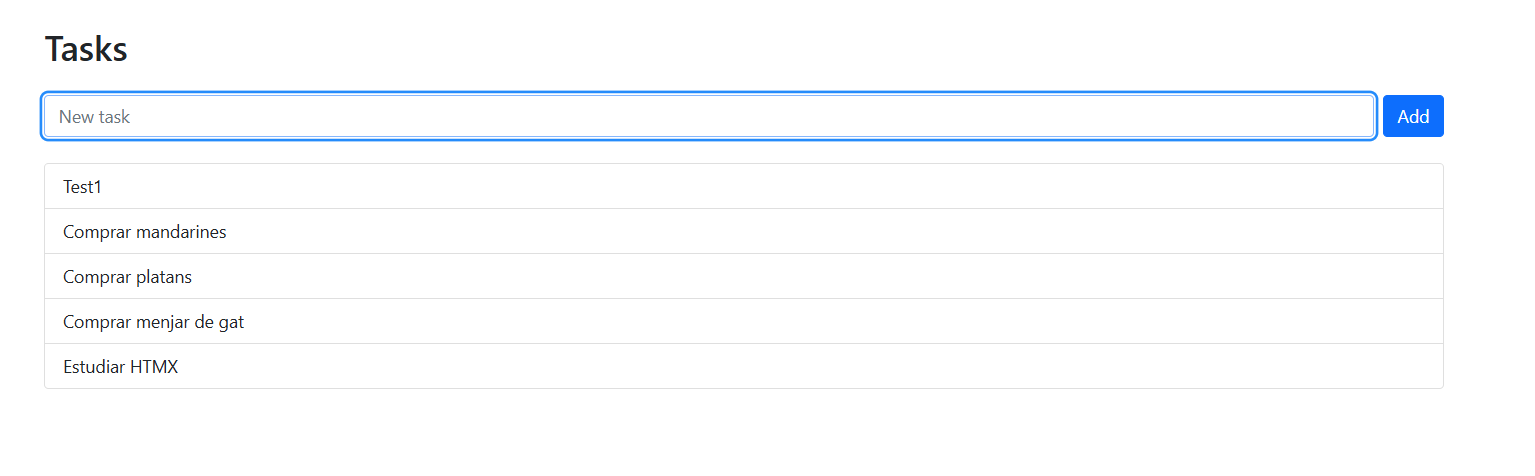
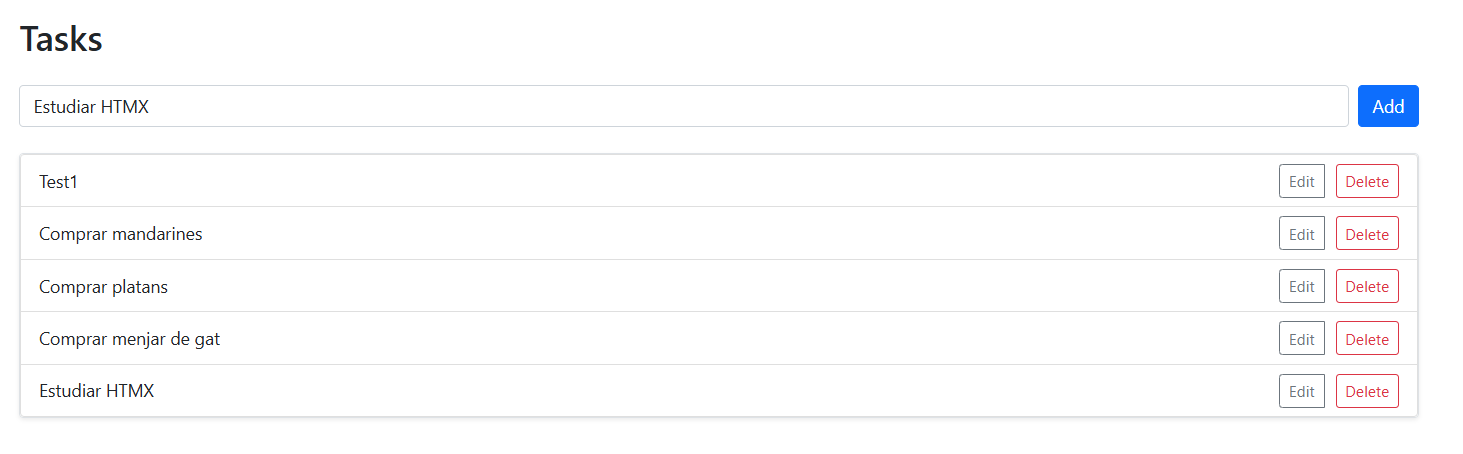
Added inline edit, delete feature and updated documentation.

diff --git a/HyperTasks/Pages/Tasks.cshtml.cs b/HyperTasks/Pages/Tasks.cshtml.cs
@@ -1,6 +1,7 @@
 using HyperTasks.Services.Contracts;
 using Microsoft.AspNetCore.Mvc;
 using Microsoft.AspNetCore.Mvc.RazorPages;
+using System.Threading;
 
 namespace HyperTasks.Pages;
 
@@ -10,6 +11,9 @@ namespace HyperTasks.Pages;
 public class TasksModel : PageModel
 {
     private readonly ITaskService _taskService;
+
+    [BindProperty]
+    public Models.Task TaskEdit { get; set; } = new();
 
     public TasksModel(ITaskService taskService)
     {
@@ -25,6 +29,33 @@ public class TasksModel : PageModel
     public IActionResult OnPostAdd(string description)
     {
         _taskService.Add(description);
+        var tasks = _taskService.GetAll();
+        return Partial("_TaskList", tasks);
+    }
+
+    public IActionResult OnPostDelete(int id)
+    {
+        _taskService.Remove(id);
+        var tasks = _taskService.GetAll();
+        return Partial("_TaskList", tasks);
+    }
+
+    public IActionResult OnGetEditForm(int id)
+    {
+        var task = _taskService.GetAll().FirstOrDefault(t => t.Id == id);
+        if (task is null) return NotFound();
+
+        return Partial("_TaskEditForm", task);
+    }
+
+    public IActionResult OnPostEdit()
+    {
+        var task = _taskService.GetAll().FirstOrDefault(t => t.Id == TaskEdit.Id);
+        if (task is not null)
+        {
+            task.Description = TaskEdit.Description;
+        }
+
         var tasks = _taskService.GetAll();
         return Partial("_TaskList", tasks);
     }

diff --git a/HyperTasks/Services/Contracts/ITaskService.cs b/HyperTasks/Services/Contracts/ITaskService.cs
@@ -20,4 +20,10 @@ public interface ITaskService
     /// </summary>
     /// <param name="description">The task description.</param>
     public void Add(string description);
+
+    /// <summary>
+    /// Removes a task by its unique identifier.
+    /// </summary>
+    /// <param name="id">The id of the task to remove.</param>
+    public void Remove(int id);
 }

diff --git a/HyperTasks/Services/TaskService.cs b/HyperTasks/Services/TaskService.cs
@@ -18,5 +18,15 @@ public class TaskService : ITaskService
     }
 
     /// <inheritdoc/>
+    public void Remove(int id)
+    {
+        var task = _tasks.FirstOrDefault(t => t.Id == id);
+        if (task is not null)
+        {
+            _tasks.Remove(task);
+        }
+    }
+
+    /// <inheritdoc/>
     public List<Models.Task> GetAll() => _tasks;
 }

diff --git a/HyperTasks/Pages/Shared/_TaskEditForm.cshtml.cs b/HyperTasks/Pages/Shared/_TaskEditForm.cshtml.cs
@@ -1,0 +1,12 @@
+using Microsoft.AspNetCore.Mvc;
+using Microsoft.AspNetCore.Mvc.RazorPages;
+
+namespace HyperTasks.Pages.Shared
+{
+    public class _TaskEditFormModel : PageModel
+    {
+        public void OnGet()
+        {
+        }
+    }
+}

diff --git a/README.md b/README.md
@@ -14,6 +14,8 @@
 ## ✨ Features
 
 - Interactive task list with dynamic add functionality
+- Edit tasks in-place with dynamic form swapping
+- Delete tasks with confirmation dialogs
 - Built using Razor Pages (Server-Side Rendering)
 - Uses [htmx](https://htmx.org) for partial updates via `GET` and `POST`
 - No JavaScript frameworks required
@@ -60,7 +62,8 @@ https://localhost:PORT/
 │   ├── Tasks.cshtml
 │   ├── Tasks.cshtml.cs
 │   └── Shared/
-│       └── _TaskList.cshtml
+│       ├── _TaskList.cshtml
+│       └── _TaskEditForm.cshtml
 ├── wwwroot/
 │   ├── js/htmx.min.js
 │   ├── js/bootstrap.bundle.min.js
@@ -74,7 +77,8 @@ https://localhost:PORT/
 ![HTML Razor markup](./htmx1.PNG)
 
 - Uses `hx-get`, `hx-post`, `hx-target`, and `hx-swap`
-- Trigger on page load and form submit
+- Triggers on page load, form submit, and button clicks
+- Styled with Bootstrap classes
 
 ---
 
@@ -83,22 +87,26 @@ https://localhost:PORT/
 ![OnGet / OnPost handlers](./htmx3.PNG)
 
 - `OnGetList()` returns the rendered task list
-- `OnPostAdd()` adds a new task and returns updated list
+- `OnPostAdd()` adds a new task
+- `OnPostDelete()` deletes an existing task
+- `OnGetEditForm()` shows inline edit form
+- `OnPostEdit()` saves updated task data
 
 ---
 
-## 🧱 Partial View (`_TaskList.cshtml`)
+## 🧱 Partials
 
-![Partial view screenshot](./htmx4.PNG)
+### `_TaskList.cshtml`
 
-Renders tasks using Bootstrap:
+Renders tasks using Bootstrap with edit/delete buttons:
 
-```html
-<ul class="list-group">
-  <li class="list-group-item">Task 1</li>
-  <li class="list-group-item">Task 2</li>
-</ul>
-```
+![Partial view source code](./htmx5.PNG)
+
+### `_TaskEditForm.cshtml`
+
+Inline edit form rendered dynamically:
+
+![Partial edit form code](./htmx6.PNG)
 
 ---
 
@@ -110,6 +118,7 @@ This project demonstrates:
 - How htmx allows server-driven UI updates
 - How Razor Pages enable SSR with minimal setup
 - How to avoid overengineering with JS frameworks
+- How to implement in-place editing with HTML partials and handlers
 
 ---
 
